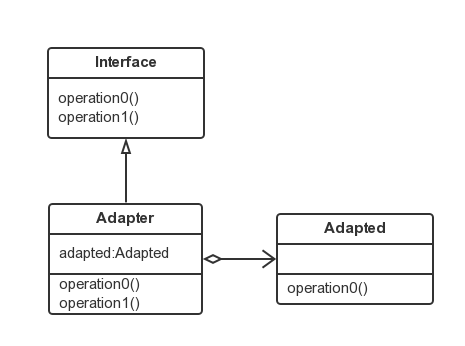
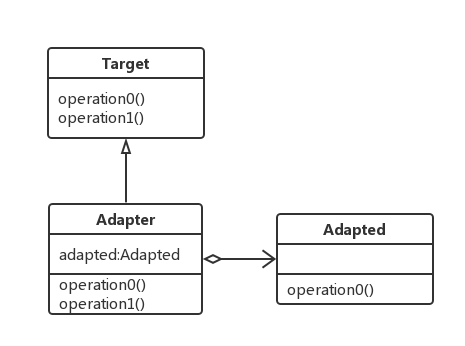
modify adapter diagrams

diff --git a/README.md b/README.md
@@ -75,5 +75,3 @@
 	* 系统想发出一个请求给多个处理者对象中的某一个，但是不明显指定是哪一个处理者对象会处理此请求。
 
 	* 纯的责任链模式要求只能由一个处理者对象负责处理请求的责任。但一般很少见。
-
-	* 
